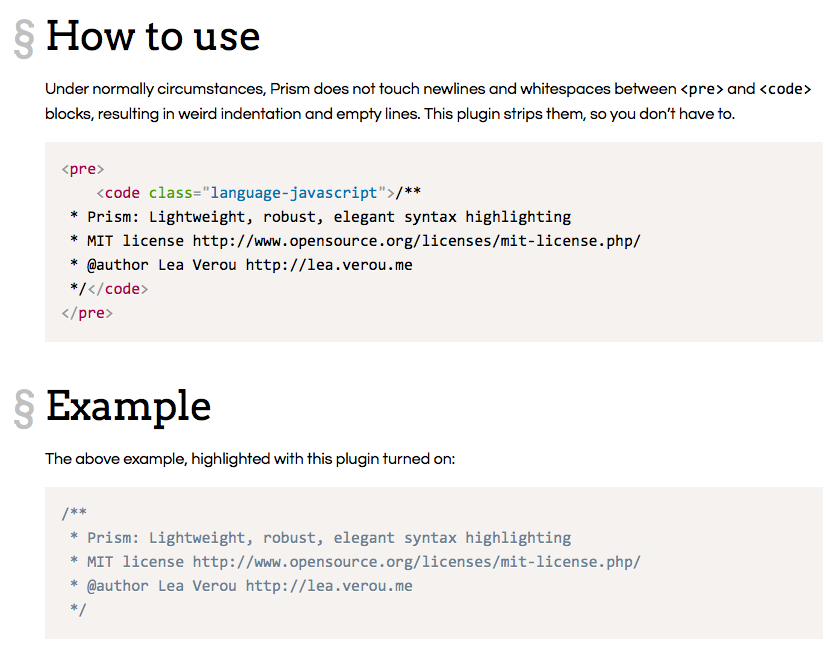
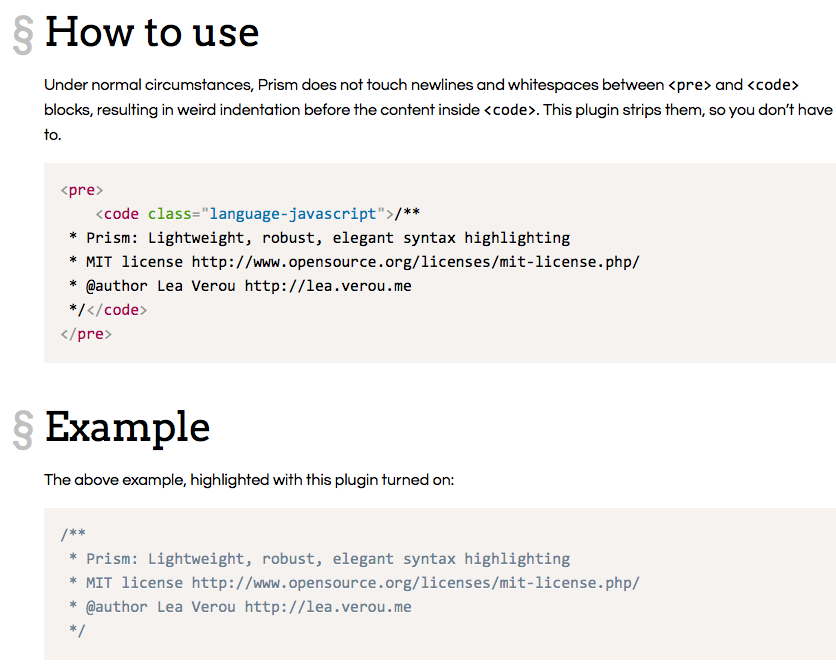
Fix typos

diff --git a/index.html b/index.html
@@ -24,7 +24,7 @@
 
 <section>
   <h1>How to use</h1>
-  <p>Under normally circumstances, Prism does not touch newlines and whitespaces between <code>&lt;pre&gt;</code> and <code>&lt;code&gt;</code> blocks, resulting in weird indentation and empty lines. This plugin strips them, so you don’t have to.</p>
+  <p>Under normal circumstances, Prism does not touch newlines and whitespaces between <code>&lt;pre&gt;</code> and <code>&lt;code&gt;</code> blocks, resulting in weird indentation before the content inside <code>&lt;code&gt;</code>. This plugin strips them, so you don’t have to.</p>
   <pre>
     <code class="language-markup">&lt;pre&gt;
     &lt;code class="language-javascript"&gt;/**
